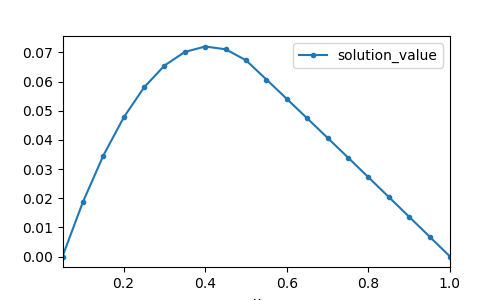
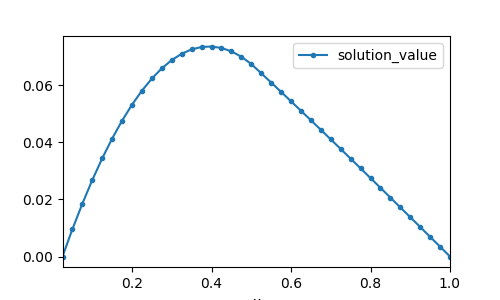
add a modification to the rhs

diff --git a/README.md b/README.md
@@ -3,7 +3,7 @@
 Surprisingly I have not found a good sparse matrix library for
 `Fortran90` on the internet when I needed it. Therefore, I wrote this
 object-oriented library to implement sparse matrices. This library
-facilitated defining and manipulating such matrices. 
+facilitates defining and manipulating such matrices. 
 
 ## Available sparse matrix representations
 1. COO (coordinate):                  `type(spmat)`
@@ -43,7 +43,7 @@ program test
   use sparsemat
 
   type(spmat)             :: A, K, Id       ! define two sparse matrix
-  integer, parameter      :: len = 20       ! define the length of the matrices
+  integer, parameter      :: len = 40       ! define the length of the matrices
   real (kind=spkind_real) :: f(len)         ! define the force vector
   real (kind=spkind_real) :: u(len)         ! define the solution vector
   real (kind=spkind_real) :: h              ! mesh size
@@ -53,9 +53,9 @@ program test
   K  = diag_sp(len,1) + diag_sp(len,-1) ! building stiffness matrix
   K  = K + (-2.0) * diag_sp(len)        ! building stiffness matrix
 
-  h = 1.0 / (len-1)
+  h = 1.0 / (len-1)             ! mesh size
 
-  A = h**(-2)*K + 0.25 * Id
+  A = h**(-2)*K + 0.5 * Id      ! final system matrix
 
   call setvalspmat(A,1,1,1.0)     ! set boundary conditions
   call setvalspmat(A,1,2,0.0)     ! set boundary conditions
@@ -64,12 +64,13 @@ program test
   
   call showspmat(A)             ! inspecting the matrix by printing it
                                 ! in terminal
-  call writespmat("bin/matrix", A)
+  call writespmat("bin/matrix", A) ! write the matrix in a file
 
-  f(1:(len/2)) = -1.0; f(1) = 0.0; f(len) = 0.0
+  f = 0.0; f(1:(len/2)) = -1.0;
+  f(1) = 0.0; f(len) = 0.0      ! boundary conditions
   
-  call solve_gmres(A, u, f, len, len, 1.0E-8, 1.0E-8)
-  call writevector("bin/solution", u)
+  call solve_gmres(A, u, f, len, len, 1.0E-8, 1.0E-8) ! solve using gmres
+  call writevector("bin/solution", u)                 ! write the solution
   
 end program test
 ```
